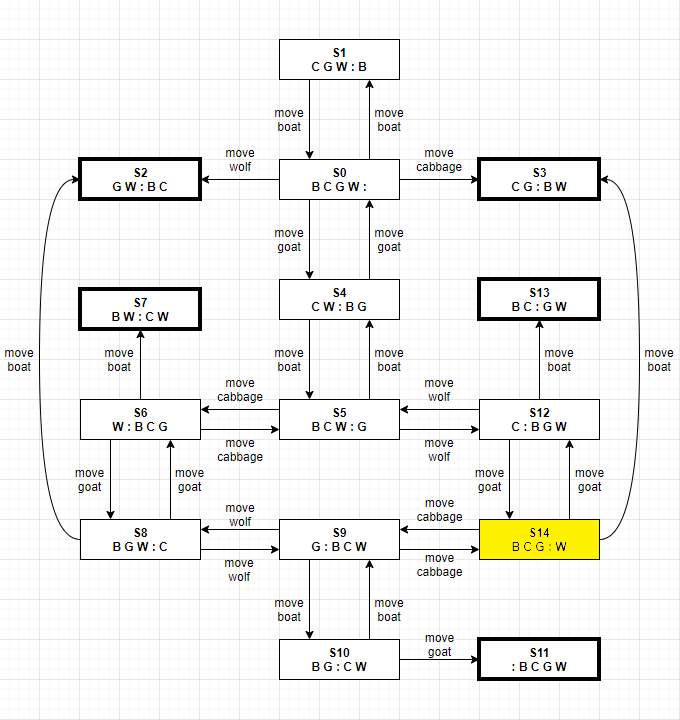
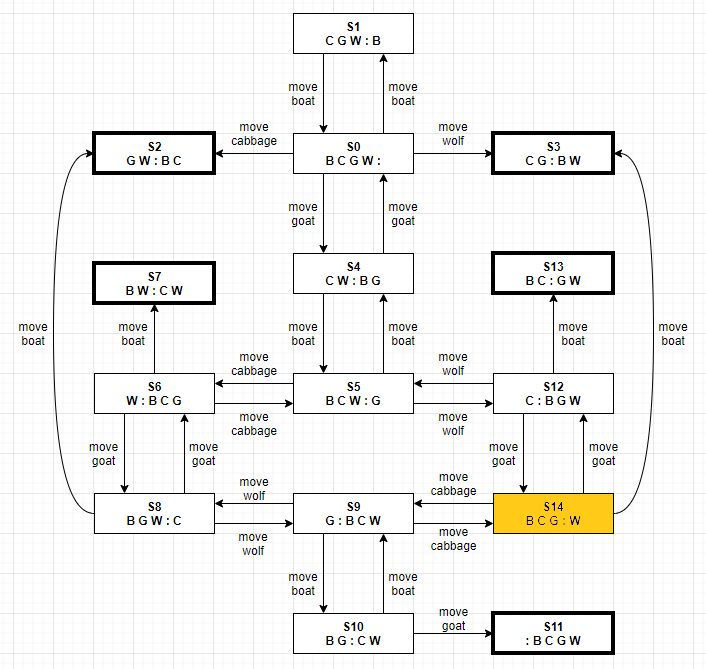
Added second page to lst section, fixed diagrams

diff --git a/states_tutorial2.html b/states_tutorial2.html
@@ -1,0 +1,60 @@
+<!DOCTYPE html>
+<html lang="en">
+    <head>
+        <meta charset="UTF-8">
+        <meta name="viewport" content="width=device-width, initial-scale=1.0">
+        <meta http-equiv="X-UA-Compatible" content="ie=edge">
+        <link rel="stylesheet" href="states_tutorial.css">
+        <title>Wolf, Goat & Cabbage Game</title>
+    </head>
+    <body>
+        <div id="main">
+            <div id="title">
+                <h1>WOLF, GOAT & CABBAGE GAME</h1>
+            </div>
+
+            <br/><br/>
+
+
+            <div id="infoBlock">
+                <div>
+                    <h><b>LABELED STATE TRANSITIONS</b></h>
+                </div>
+                <div id="info">
+                    <p>We can also use an LST to solve the Wolf, Goat & Cabbage puzzle:</p> 
+                    <ul>
+                        <li>The <b>states</b> will be <b>whatever side of the river the animals, cabbage and boat are on</b></li>
+                        <li>The <b>transition (action)</b> will be <b>what is crossing the river at that time</b></li>
+                    </ul>
+                    <p>On the right is a section from the LST of the game:</p>                    
+                    <ul>
+                        <li>We start in <b>State 0</b> (S0 in the diagram)</li>
+                        <li><b>Moving the wolf</b> puts us in State 3 (S3)</li>
+                        <li><b>S3 is an End State</b> because the goat then eats the cabbage and <b>no more moves can be made</b></li>
+                        <li>Looking back to S0, <b>moving the goat</b> puts us in <b>State 4</b> (S4)</li>
+                        <li>From S4, we can <b>move the goat back</b> to the other side to go <b>back to S0</b></li>
+                    </ul>
+                </div>            
+                <div id="exampleDiagram">
+                    <img src="state_example.PNG" width="450" height="200">
+                </div> 
+            </div>   
+
+            </br>
+            
+            <div id="options">  
+                <div id="exitControls">                    
+                    <form action="menu.html">
+                        <input type="submit" value="Back to Menu" />
+                    </form> 
+                </div>  
+                  
+                <div id="backButton">                  
+                    <form action="states_tutorial1.html">
+                        <input type="submit" value="Next" />
+                    </form> 
+                </div>                                  
+            </div>   
+        </div>
+    </body>
+</html>

diff --git a/states_tutorial1.html b/states_tutorial1.html
@@ -32,7 +32,7 @@
                     </ul>
                     <p><i>The LST of a game of catch is on the right</i> ➜ ➜</p>
                 </div>           
-                <div id="catchDiagram">
+                <div id="exampleDiagram">
                     <img src="catch_lst.png" width="300" height="300">
                 </div>  
             </div>   
@@ -40,11 +40,16 @@
             </br>
             
             <div id="options">  
-                <div id="exitControls">                    
+                <div id="exitStates">                    
                     <form action="menu.html">
                         <input type="submit" value="Back to Menu" />
                     </form> 
-                </div>                                       
+                </div>      
+                <div id="nextButton">                  
+                    <form action="states_tutorial2.html">
+                        <input type="submit" value="Next" />
+                    </form> 
+                </div>                                 
             </div>   
         </div>
     </body>

diff --git a/states_tutorial.css b/states_tutorial.css
@@ -41,7 +41,7 @@
     padding: 10px;
 }
 
-#catchDiagram {
+#exampleDiagram {
     float: left;
     padding: 10px;
 }
@@ -49,14 +49,17 @@
     display: inline-block;
 }
 
-#exitControls {
+#exitStates {
     float: left;
     padding: 20px;
-
 }
 
-#playGame {
+#nextButton {
     float: left;
     padding: 20px;
+}
 
+#backButton {
+    float: left;
+    padding: 20px;
 }
